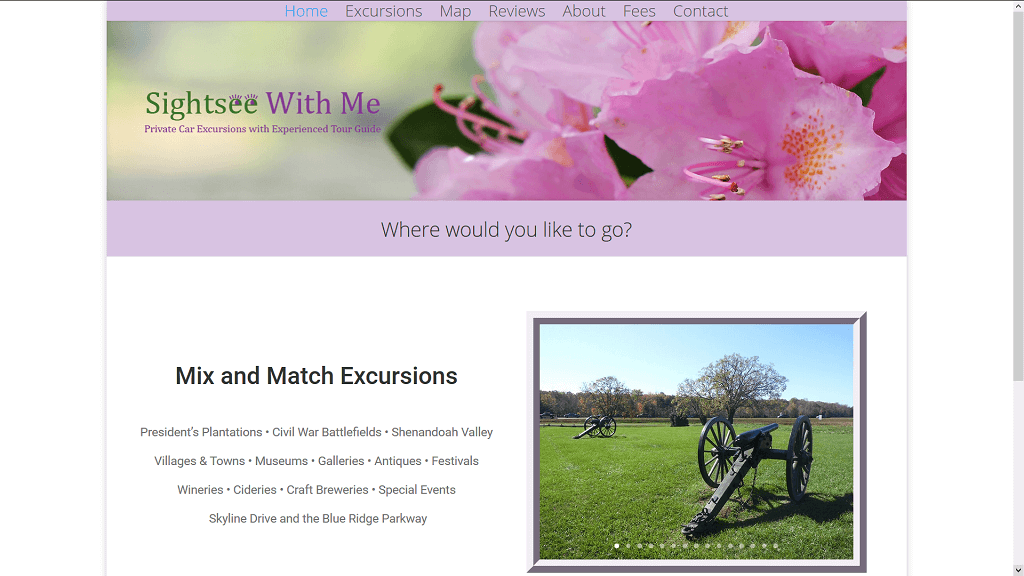
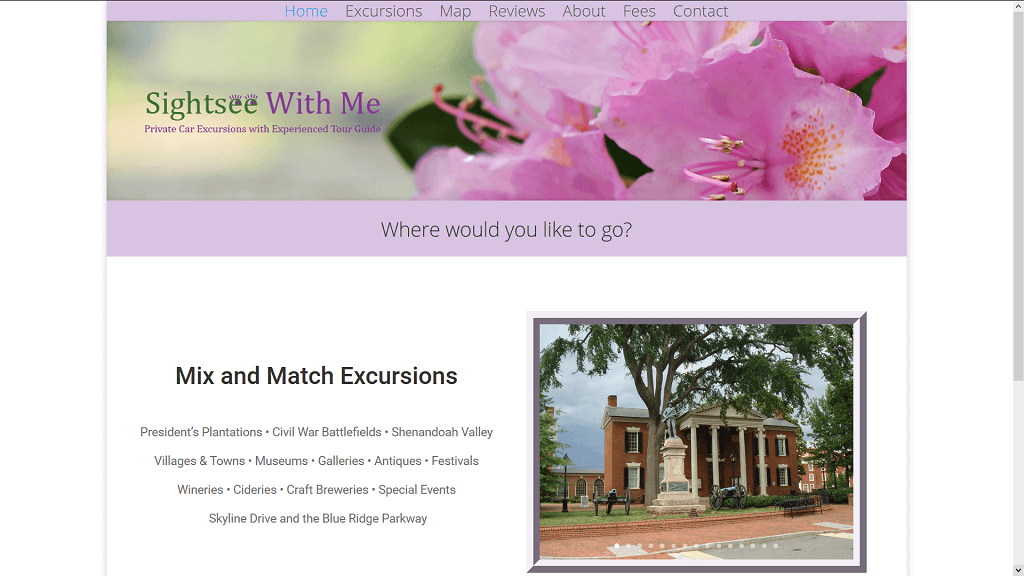
added colorGame

Changed region(s): [[0.5, 0.5625, 0.8438, 1.0]]

diff --git a/index.html b/index.html
@@ -55,16 +55,16 @@
   <div class="screenShots">
   <div class="row">
     <div class="col-md-4">
+    <p>Color Game</p>
+      <a href="https://timh1203.github.io/colorGame/"><img class="img-responsive center-block rounded portfolio-pic" src="assets\img\colorGame.png" alt="Color Game"></a>
+      </div>
+    <div class="col-md-4">
     <p>Traveler's Checklist</p>
       <a href="https://timh1203.github.io/travelerChecklist/"><img class="img-responsive center-block rounded portfolio-pic" src="assets\img\travelerChecklist.png" alt="Traveler's Checklist"></a>   
     </div>
     <div class="col-md-4">
     <p>Patatap Game Clone</p>
       <a href="https://timh1203.github.io/patatapClone"><img class="img-responsive center-block rounded portfolio-pic" src="assets\img\patatapClone.png" alt="Patatap Game Clone"></a>
-      </div>
-    <div class="col-md-4 comingSoon">
-    <p>Coming Soon</p>
-      <a href="#"><img class="img-responsive center-block rounded portfolio-pic" src="" alt=""></a>
       </div>
   </div>
 
@@ -103,10 +103,12 @@
         <img class="img-responsive img-me center-block" src="http://www.spiritedtravelpreneur.com/wp-content/uploads/2016/01/3a86af993310f9af355314caaec683a4.jpeg" alt="That's me!">
       </div>
       <div class="col-md-6">
-          <p>Hi, I'm Timothy! I love designing websites. I started making websites in college and more than a handful ever since. I am in the process of learning web development. I also have experience with Divi Theme.
+          <p>Hi, I'm Timothy! I love designing websites. I started making websites in college and more than a handful ever since. I am in the process of learning web development. I also have experience with Divi Theme.</p>
+          <br>
+          <p>I'm currently working on front-end of things with a focus in JavaScript and ReactJS. In the future, I would like to move towards the back-end towards the MERN stack (Mongo, Express, React, and Node).</p>
           <br>
           <p>I am professional, punctual, and organized. I enjoy traveling, meeting new people, and snowboarding in my spare time.
-			Thank you visiting and have a great day.</p>
+			     Thank you visiting and have a great day.</p>
           <br>
           <div class="row">
 	          <div class="col-md-6"><h2>Languages</h2>

diff --git a/assets/css/style.css b/assets/css/style.css
@@ -26,12 +26,7 @@ h1 {
 .screenShots {
 	padding-bottom: 40px;
 }
-.comingSoon {
-  float: right;
-  width: 100px;
-  height: 100px; 
-  position: relative;
-}
+
 #about {
 	padding: 40px;
 	background-color: #4C9CDD;
